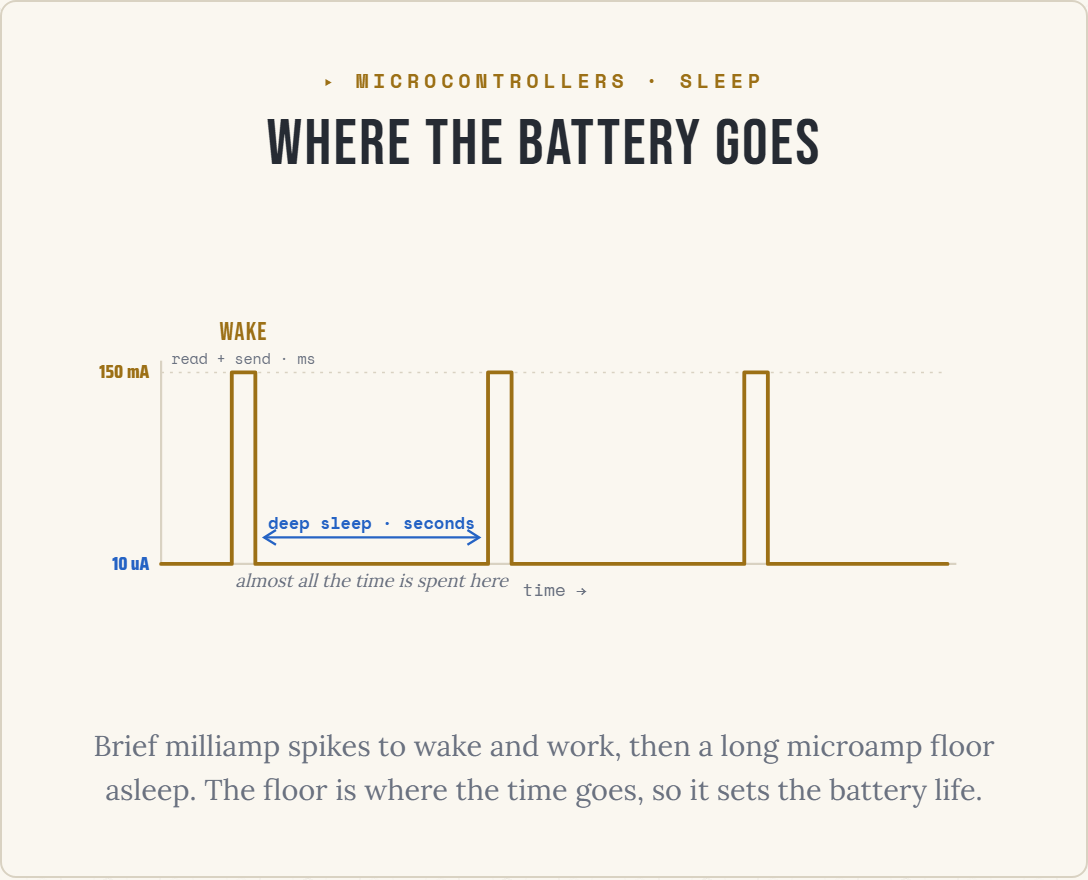
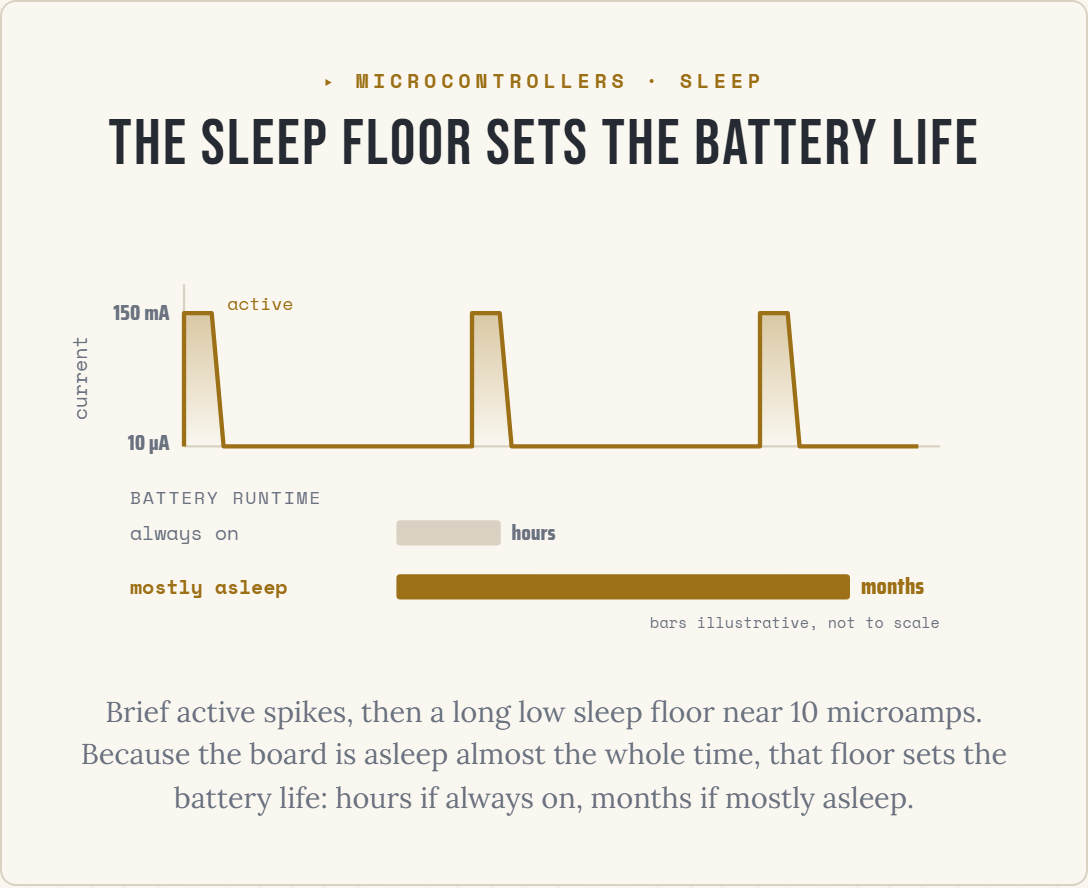
redo(diagrams): mcu-sleep-current — trace plus runtime bars (10/11)
Rebuild to the house bar: the sparse old trace becomes a richer figure. Brief tall
active spikes with a gradient fill, a long low 10 uA sleep floor, and below it two
runtime bars comparing always-on (hours) against mostly-asleep (months), the
lesson's own framing. Current values are illustrative ESP32 ballparks; the bars
are marked not to scale. Saira numbers, gradient stops re-theme via class,
landscape 1.24.

Changed region(s): [[0.0625, 0.3375, 0.875, 0.7057], [0.0625, 0.7977, 0.9375, 0.9205], [0.0938, 0.1227, 0.9062, 0.1841]]

diff --git a/src/components/guide/diagrams/McuSleepCurrent.tsx b/src/components/guide/diagrams/McuSleepCurrent.tsx
@@ -1,102 +1,97 @@
-// Sleep current: the wake-measure-sleep cycle (v2). Microcontrollers cluster.
+// Sleep current: the wake-measure-sleep cycle (diagram-standards v2).
+// MCU cluster, diagram 10. Owner-picked SL5: the trace plus runtime bars.
 //
-// Teaching point: a battery board wakes for a few milliseconds (drawing
-// milliamps), does its work, then deep-sleeps for seconds (drawing microamps). It
-// spends almost all its time on the low floor, so the sleep current is what sets
-// the battery life.
+// Teaching point (lesson 9): a battery board wakes for a few milliseconds (drawing
+// milliamps), works, then deep-sleeps for seconds (drawing microamps). Because it
+// is asleep almost the whole time, the low sleep floor sets the average current,
+// and so the battery life: hours if always on, months if mostly asleep (the
+// lesson's own "difference between hours and months"). Top is the current trace;
+// below, two runtime bars compare the two. Current values are illustrative ESP32
+// ballparks; the bar lengths are illustrative, not to scale.
 //
-// Landscape desktop/print: a current-versus-time trace, tall brief spikes over a
-// long low floor, with the "most of the time asleep" span. REFLOWS on a phone to
-// a stat pair + summary. Token-only color.
+// Trace path computed once at module scope. Color via CSS classes; Saira for the
+// current numbers. Header + caption from the DiagramFrame.
 import { DiagramFrame } from "./DiagramFrame";
 
-const BASE = 224, PEAK = 94, X0 = 70, X1 = 604;
-
-function tracePath(): string {
-  const spikes = [126, 300, 474];
-  const hw = 8;
-  let d = `M${X0},${BASE}`;
-  for (const cx of spikes) {
-    d += ` L${cx - hw},${BASE} L${cx - hw},${PEAK} L${cx + hw},${PEAK} L${cx + hw},${BASE}`;
-  }
-  d += ` L${X1},${BASE}`;
+const X0 = 70, X1 = 478, YT = 44, YB = 118;
+const CYC = [70, 230, 390], SW = 22;
+const TRACE = (() => {
+  let d = `M${X0} ${YB}`;
+  CYC.forEach((cx) => { d += ` L${cx} ${YB} L${cx} ${YT} L${cx + SW * 0.7} ${YT} L${cx + SW} ${YB}`; });
+  d += ` L${X1} ${YB}`;
   return d;
-}
+})();
+const AREA = `${TRACE} L${X1} ${YB} L${X0} ${YB} Z`;
 
 export function McuSleepCurrent({ caption }: { caption?: string }) {
   return (
     <DiagramFrame
       eyebrow="MICROCONTROLLERS · SLEEP"
       tone="gold"
-      title="Where the battery goes"
-      ariaLabel="A current-versus-time trace of a battery board's wake-measure-sleep cycle. The current spikes briefly to the milliamp range each time the board wakes to take a reading and send it, then drops back to a long, flat microamp floor while it deep-sleeps for seconds. The board spends almost all of its time on that low floor, so the sleep current, not the brief spikes, is what sets the battery life."
+      title="The sleep floor sets the battery life"
+      ariaLabel="A current-versus-time trace of a wake-measure-sleep cycle: brief tall active spikes reaching about 150 milliamps, each followed by a long flat sleep floor near 10 microamps, repeating. Below, two runtime bars compare a board left always on, which lasts hours, against one that is mostly asleep, which lasts months. The low sleep floor, held almost the whole time, is what sets the battery life."
       caption={caption}
-      defaultCaption="Brief milliamp spikes to wake and work, then a long microamp floor asleep. The floor is where the time goes, so it sets the battery life."
+      defaultCaption="Brief active spikes, then a long low sleep floor near 10 microamps. Because the board is asleep almost the whole time, that floor sets the battery life: hours if always on, months if mostly asleep."
     >
       <style>{CSS}</style>
-
       <div className="sc">
-        {/* desktop / print */}
-        <svg className="sc-scene" viewBox="0 0 660 300" aria-hidden="true">
-          {/* axes */}
-          <line className="sc-axis" x1={X0} y1={PEAK - 8} x2={X0} y2={BASE} />
-          <line className="sc-axis" x1={X0} y1={BASE} x2={X1 + 6} y2={BASE} />
-          <line className="sc-grid" x1={X0} y1={PEAK} x2={X1} y2={PEAK} />
-          <text className="sc-yhi" x={X0 - 8} y={PEAK + 4} textAnchor="end">150 mA</text>
-          <text className="sc-ylo" x={X0 - 8} y={BASE + 4} textAnchor="end">10 uA</text>
-          <text className="sc-ax" x={(X0 + X1) / 2} y={BASE + 22} textAnchor="middle">time →</text>
+        <svg className="sc-svg" viewBox="0 0 540 226" aria-hidden="true">
+          <defs>
+            <linearGradient id="sc-fill" x1="0" y1="0" x2="0" y2="1">
+              <stop offset="0" className="sc-g0" />
+              <stop offset="1" className="sc-g1" />
+            </linearGradient>
+          </defs>
 
-          {/* the trace */}
-          <path className="sc-trace" fill="none" d={tracePath()} />
+          {/* current trace */}
+          <line x1={X0} y1="28" x2={X0} y2={YB} className="sc-axis" />
+          <line x1={X0} y1={YB} x2={X1 + 12} y2={YB} className="sc-axis" />
+          <text x={X0 - 8} y={YT + 4} textAnchor="end" className="sc-num">150 mA</text>
+          <text x={X0 - 8} y={YB + 2} textAnchor="end" className="sc-num">10 µA</text>
+          <path d={AREA} className="sc-area" />
+          <path d={TRACE} className="sc-trace" />
+          <text x={CYC[0] + 24} y={YT - 2} className="sc-active">active</text>
+          <text x="16" y="80" textAnchor="middle" className="sc-axlbl" transform="rotate(-90 16 80)">current</text>
 
-          {/* wake label on the first spike */}
-          <text className="sc-wake" x={126} y={72} textAnchor="middle">WAKE</text>
-          <text className="sc-wsub" x={126} y={88} textAnchor="middle">read + send · ms</text>
-
-          {/* "most of the time asleep" span along a floor segment */}
-          <line className="sc-span" x1={140} y1={206} x2={286} y2={206} />
-          <path className="sc-span" fill="none" d="M148,201 L140,206 L148,211" />
-          <path className="sc-span" fill="none" d="M278,201 L286,206 L278,211" />
-          <text className="sc-spanl" x={213} y={200} textAnchor="middle">deep sleep · seconds</text>
-          <text className="sc-floor" x={213} y={240} textAnchor="middle">almost all the time is spent here</text>
+          {/* runtime bars */}
+          <text x="40" y="150" className="sc-runlbl">battery runtime</text>
+          <text x="40" y="170" className="sc-barlbl">always on</text>
+          <rect x="188" y="159" width="58" height="14" rx="2" className="sc-bar-dim" />
+          <text x="252" y="170" className="sc-barval-dim">hours</text>
+          <text x="40" y="200" className="sc-barlbl-g">mostly asleep</text>
+          <rect x="188" y="189" width="252" height="14" rx="2" className="sc-bar-gold" />
+          <text x="446" y="200" className="sc-barval">months</text>
+          <text x={X1 + 12} y="219" textAnchor="end" className="sc-note">bars illustrative, not to scale</text>
         </svg>
-
-        {/* phone reflow */}
-        <div className="sc-phone" aria-hidden="true">
-          <div className="sc-stats">
-            <div className="sc-st"><span className="sc-sn sc-gold">150 mA</span><span className="sc-sl">awake · a few ms</span></div>
-            <div className="sc-st"><span className="sc-sn sc-blue">10 uA</span><span className="sc-sl">asleep · seconds</span></div>
-          </div>
-          <p className="sc-sum">The board wakes briefly to work, then deep-sleeps a long time. It spends almost all its time on the low floor, so the sleep current sets the battery life.</p>
-        </div>
       </div>
     </DiagramFrame>
   );
 }
 
 const CSS = `
-.sc{display:block;}
-.sc-scene{display:block;width:100%;height:auto;overflow:visible;}
-.sc-axis{stroke:var(--color-panel-border,#3a3f50);stroke-width:1.5;}
-.sc-grid{stroke:var(--color-panel-border,#3a3f50);stroke-width:1;stroke-dasharray:2 4;}
-.sc-trace{stroke:var(--color-command-gold,#c8963e);stroke-width:2.6;stroke-linejoin:round;stroke-linecap:round;}
-.sc-yhi{font-family:var(--font-numeral,"Saira Condensed",sans-serif);font-weight:800;font-size:13px;fill:var(--color-command-gold,#c8963e);}
-.sc-ylo{font-family:var(--font-numeral,"Saira Condensed",sans-serif);font-weight:800;font-size:13px;fill:var(--color-signal-blue,#4a8fff);}
-.sc-ax{font-family:var(--font-mono,"Space Mono",monospace);font-weight:400;font-size:12px;fill:var(--color-muted,#aaa);}
-.sc-wake{font-family:var(--font-display,"Bebas Neue",sans-serif);font-size:17px;letter-spacing:.05em;fill:var(--color-command-gold,#c8963e);}
-.sc-wsub{font-family:var(--font-mono,"Space Mono",monospace);font-weight:400;font-size:10px;fill:var(--color-muted,#aaa);}
-.sc-span{fill:none;stroke:var(--color-signal-blue,#4a8fff);stroke-width:1.6;}
-.sc-spanl{font-family:var(--font-mono,"Space Mono",monospace);font-weight:700;font-size:11.5px;fill:var(--color-signal-blue,#4a8fff);}
-.sc-floor{font-family:var(--font-serif,"Lora",serif);font-style:italic;font-size:12.5px;fill:var(--color-muted,#aaa);}
+.sc{max-width:36rem;margin-inline:auto;}
+.sc-svg{display:block;width:100%;height:auto;overflow:visible;}
+.sc-axis{stroke:var(--color-panel-border,#3a3f50);stroke-width:1.3;}
+.sc-num{font-family:var(--font-numeral,"Saira Condensed",sans-serif);font-weight:700;font-size:12px;fill:var(--color-muted,#aaaaaa);}
+.sc-g0{stop-color:var(--color-command-gold,#c8963e);stop-opacity:.35;}
+.sc-g1{stop-color:var(--color-command-gold,#c8963e);stop-opacity:0;}
+.sc-area{fill:url(#sc-fill);}
+.sc-trace{fill:none;stroke:var(--color-command-gold,#c8963e);stroke-width:2.4;stroke-linejoin:round;}
+.sc-active{font-family:var(--font-mono,"Space Mono",monospace);font-size:10px;fill:var(--color-command-gold,#c8963e);}
+.sc-axlbl{font-family:var(--font-mono,"Space Mono",monospace);font-size:11px;fill:var(--color-muted,#aaaaaa);}
+.sc-runlbl{font-family:var(--font-mono,"Space Mono",monospace);font-size:10px;letter-spacing:.1em;text-transform:uppercase;fill:var(--color-muted,#aaaaaa);}
+.sc-barlbl{font-family:var(--font-mono,"Space Mono",monospace);font-size:11px;fill:var(--color-muted,#aaaaaa);}
+.sc-barlbl-g{font-family:var(--font-mono,"Space Mono",monospace);font-weight:700;font-size:11px;fill:var(--color-command-gold,#c8963e);}
+.sc-bar-dim{fill:var(--color-panel-border,#3a3f50);}
+.sc-bar-gold{fill:var(--color-command-gold,#c8963e);}
+.sc-barval-dim{font-family:var(--font-numeral,"Saira Condensed",sans-serif);font-weight:700;font-size:12px;fill:var(--color-muted,#aaaaaa);}
+.sc-barval{font-family:var(--font-numeral,"Saira Condensed",sans-serif);font-weight:700;font-size:13px;fill:var(--color-command-gold,#c8963e);}
+.sc-note{font-family:var(--font-mono,"Space Mono",monospace);font-size:8.5px;fill:var(--color-muted,#aaaaaa);}
 
-/* phone reflow */
-.sc-phone{display:none;}
-@media (max-width:520px){ .sc-scene{display:none;} .sc-phone{display:block;} }
-.sc-stats{display:flex;gap:1.2rem;margin-bottom:.6rem;}
-.sc-st{display:flex;flex-direction:column;}
-.sc-sn{font-family:var(--font-numeral,"Saira Condensed",sans-serif);font-weight:800;font-size:1.9rem;line-height:1;}
-.sc-gold{color:var(--color-command-gold,#c8963e);}
-.sc-blue{color:var(--color-signal-blue,#4a8fff);}
-.sc-sl{font-family:var(--font-mono,"Space Mono",monospace);font-size:.72rem;letter-spacing:.04em;color:var(--color-muted,#aaa);margin-top:.15rem;}
-.sc-sum{margin:0;font-family:var(--font-serif,"Lora",serif);font-size:.94rem;line-height:1.5;color:var(--color-text,#e8e8e8);}
+/* Tier-B reveal off the frame's armed/in contract (final state under reduced-motion). */
+.dgfrm.armed .sc-svg{opacity:0;transform:translateY(6px);}
+.dgfrm.armed.in .sc-svg{opacity:1;transform:none;transition:opacity .6s ease,transform .6s cubic-bezier(.2,.7,.2,1);}
+@media (prefers-reduced-motion:reduce){
+  .dgfrm .sc-svg{opacity:1!important;transform:none!important;transition:none!important;}
+}
 `;
